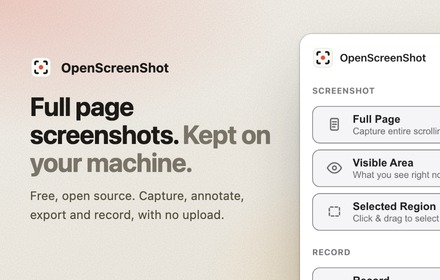
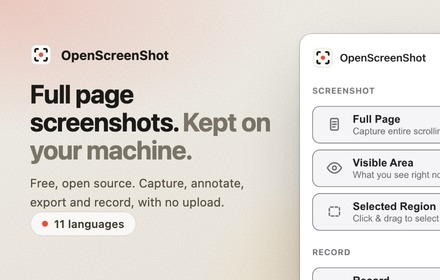
feat(store): say the eleven languages on the global promo tiles
The tiles serve every market, so they carry the message natively: the
marquee gets a muted row of the nine translated language names in
their own scripts and an '11 languages' chip; the small tile gets the
chip. The ten locale copy files go — no poster renders from them any
more.

Rendered with npm run shots; cws-4/shot-4/shot-5 restored (their bytes
differ every run).

Changed region(s): [[0.0591, 0.1429, 0.6205, 0.8571]]

diff --git a/scripts/shots/marquee.html b/scripts/shots/marquee.html
@@ -56,11 +56,13 @@
       </div>
       <h1>{{marqueeTitle}} <span class="muted">{{marqueeTitleMuted}}</span></h1>
       <p class="sub">{{marqueeSub}}</p>
+      <p class="langs">{{langLine}}</p>
       <div class="chips">
         <span class="chip"><span class="dot"></span>{{chipFree}}</span>
         <span class="chip"><span class="dot"></span>{{chipOpenSource}}</span>
         <span class="chip"><span class="dot"></span>{{chipNoAccount}}</span>
         <span class="chip"><span class="dot"></span>{{chipNoUpload}}</span>
+        <span class="chip"><span class="dot"></span>{{chipLanguages}}</span>
       </div>
     </div>
     <div class="window">

diff --git a/scripts/shots/promo-tile.html b/scripts/shots/promo-tile.html
@@ -53,6 +53,9 @@
       </div>
       <h1>{{promoTitle}} <span class="muted">{{promoTitleMuted}}</span></h1>
       <p class="sub">{{promoSub}}</p>
+      <div class="chips">
+        <span class="chip"><span class="dot"></span>{{chipLanguages}}</span>
+      </div>
     </div>
     <div class="popup">
       <img src="captures/popup.png" alt="" />

diff --git a/scripts/shots/poster.css b/scripts/shots/poster.css
@@ -157,6 +157,14 @@ h1 .muted {
   line-height: 1.55;
   color: #55503f;
 }
+.langs {
+  margin: 10px 0 0;
+  font-size: 12.5px;
+  font-weight: 500;
+  letter-spacing: 0.01em;
+  color: rgba(63, 58, 48, 0.62);
+}
+
 .chips {
   display: flex;
   flex-wrap: wrap;
